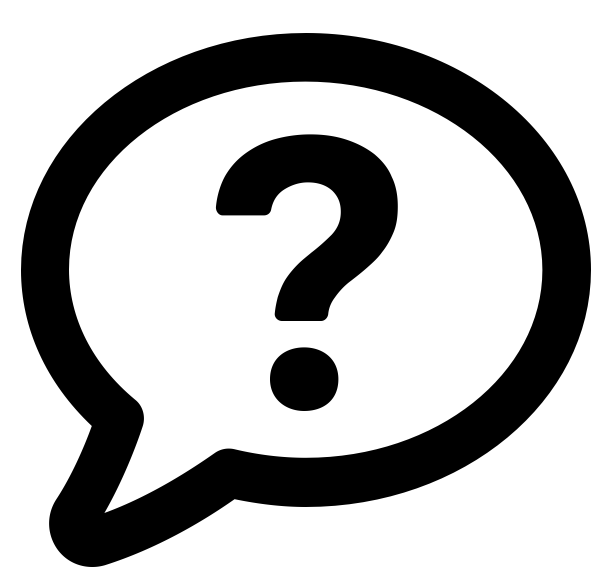
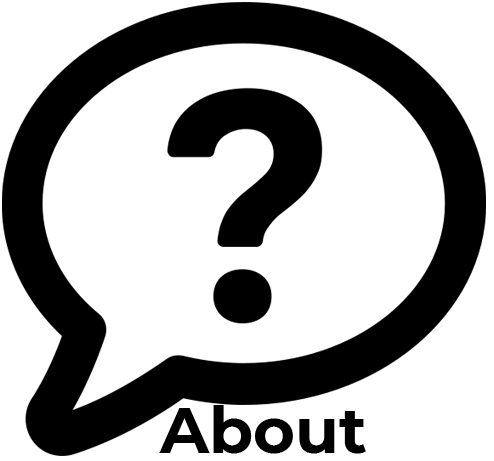
Iconupdate

diff --git a/index.html b/index.html
@@ -24,27 +24,29 @@
   <h4>Anna Rock</h4>
   <div class="row">
   <div class="col-sm-4">
-      <h3>About1</h3>
-      <a href='./00_intro/index.html'><img src="./icons/questionbubble.png" class="img-responsive margin" style="width:90%" alt="questionbubble"></a>
+      <h3>About</h3>
+      <a href='./00_intro/index.html'><img src="./icons/questionbubble.png" class="img-responsive margin" style="width:100%" alt="questionbubble"></a>
       <h3>About</h3>
     </div>
+
     <div class="col-sm-4">
-      <img src="./icons/questionbubble.png" class="img-responsive margin" style="width:90%" alt="questionbubble">
-      <h3><a href='./01_ideas/index.html'>Final Project Musings</a></h3>
+      <a href='./01_project/index.html'><img src="./icons/questionbubble_01finalproj.png" class="img-responsive margin" style="width:100%" alt="questionbubble"></a>
+      <h3>Final Project Musings</h3>
     </div>
+
     <div class="col-sm-4">
-      <img src="./icons/questionbubble.png" class="img-responsive margin" style="width:90%" alt="questionbubble">
-      <h3><a href='./02_2ddesign/index.html'>02:2D Design</a></h3>
+      <a href='./02_2ddesign/index.html'><img src="./icons/questionbubble_022ddesign.png" class="img-responsive margin" style="width:90%" alt="questionbubble"></a>
+      <h3>02:2D Design</h3>
     </div>
   </div>
 
   <div class="row">
     <div class="col-sm-4">
-      <img src="./icons/questionbubble.png" class="img-responsive margin" style="width:90%" alt="questionbubble">
-      <h3><a href='./03_electronics/index.html'>03:Electronics + Tools</a></h3>
+      <a href='./03_electronics/index.html'><img src="./icons/questionbubble_03electronics.png" class="img-responsive margin" style="width:90%" alt="questionbubble"></a>
+      <h3>03:Electronics + Tools</h3>
     </div>
     <div class="col-sm-4">
-      <img src="./icons/questionbubble.png" class="img-responsive margin" style="width:90%" alt="questionbubble">
+      <img src="./icons/questionbubble_04rapidproto.png" class="img-responsive margin" style="width:90%" alt="questionbubble">
       <h3><a href='./04_rapidproto/index.html'>04:Rapid Prototyping</a></h3>
     </div>
     <div class="col-sm-4">
